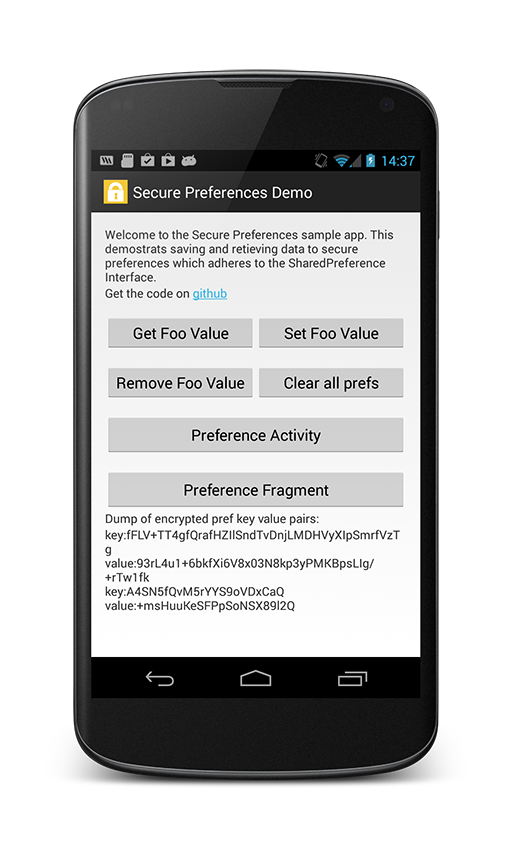
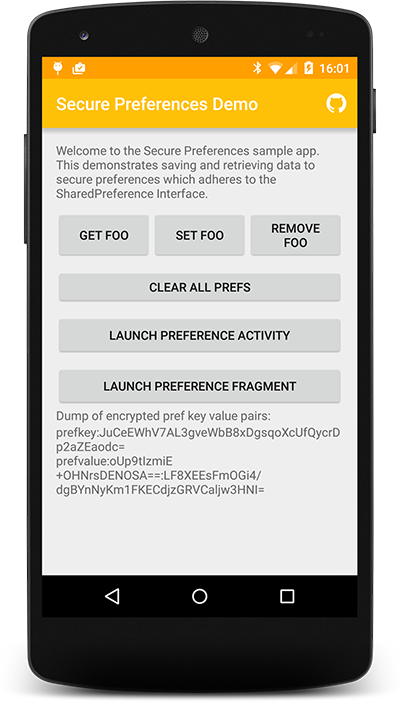
Updated read me/changes

diff --git a/README.md b/README.md
@@ -3,58 +3,103 @@ Secure-preferences
 
 [![Android Arsenal](https://img.shields.io/badge/Android%20Arsenal-secure--preferences-brightgreen.svg?style=flat)](http://android-arsenal.com/details/1/362)
 
-This is Android Shared preference wrapper that encrypts the keys and values of Shared Preferences using 256-bit AES. **The key is stored in the perferences and so can be read and extracted by root user.** Keys and values are encrypted and base64 encooded before storing into prefs. 
+This is Android Shared preference wrapper that encrypts the values of Shared Preferences using AES 128, CBC, and PKCS5 padding with integrity checking in the form of a SHA 256 hash. Each key is stored as a one way HA 256 hash. Both keys and values are base64 encoded before storing into prefs xml file. **By default the generated key is stored in the backing perferences file and so can be read and extracted by root user.** Recommend use the user password generated option as added in v0.1.0.
 
-The sample app is availbile on [playstore](https://play.google.com/store/apps/details?id=com.securepreferences.sample)
+The sample app is available on [playstore](https://play.google.com/store/apps/details?id=com.securepreferences.sample)
 
-Much of the original code is from Daniel Abraham article on [codeproject](http://www.codeproject.com/Articles/549119/Encryption-Wrapper-for-Android-SharedPreferences). This project was created and shared on Github with his permission. 
-
-![screenshot](https://raw.github.com/scottyab/secure-preferences/master/docs/images/ss_frame_secure_pref.png "Sample app Screenshot")
+<img src="https://raw.github.com/scottyab/secure-preferences/master/docs/images/ss_frame_secure_pref.png" height="400" alt="Sample app Screenshot" />
  
 
+##New release v0.1.0
+This release is a major refactor of the guts of secure prefs, which is *Not backwards compatible* yet with older versions. So if you have an existing app using this don't upgrade. I'll be looking to add migration into a later release.
+
+#Usage
+
 ##Dependency
+
+Maven central is the prefered way:
+
 ```java
 	dependencies {
     	compile 'com.scottyab:secure-preferences-lib:0.0.4'
 	}
 ```
 
-##Release Notes:
-0.0.5 (coming soon)
-* default AES to CBC mode for increased security
+Or clone this repo and add the library as a Android library project/module.
 
-0.0.4
-* Gralde support thanks @yelinaung 
-* Fix for OnPreferenceChanged listener @richardleggett 
+#Examples
+This will use the default shared pref file
 
-0.0.3
+```java
+        SharedPreferences prefs = new SecurePreferences(context);     
+```
 
-* Added test Project
-* Updated sample ready for playstore upload 
+##Custom pref file
+You can define a seperate file for encrpyted preferences. 
 
-0.0.2
+```java
+        SharedPreferences prefs = new SecurePreferences(context, null, "my_custom_prefs.xml");
+```
 
-* Added methods to get/set strings un-encrypted 
-* Added backup PBKDF function in case PBKDF2WithHmacSHA1 not supported
-* Refactored code to make it easier to change the AES mode and PBKDF function. 
-* Increased iterations of PBKDF from 1000 to 2000. 
 
-0.0.1 
+##User password
+Passing in a password to the SecurePreferences contructor means the key is generated at runtime and *not* stored in the backing pref file. 
 
-* Initial import to github I've modified the project structure. 
-* Included the Android base64 class so library can be used by Android 2.1+. 
-* Enhanced the sample project dumps current prefs to illustrate the fact they are stored encrypted and Base64 encoded. 
+```java
+        SharedPreferences prefs = new SecurePreferences(context, "userpassword", "my_user_prefs.xml");
+```
+
+##Changing Password
+
+```java
+        SecurePreferences securePrefs = new SecurePreferences(context, "userpassword", "my_user_prefs.xml");
+
+        
+```
+
+
+#What does the data look like?
+
+SharedPreferences keys and values are stored as simple map in an XML file.  
+
+##XML using Standard Android SharedPreferences
+
+
+```xml
+	<map>
+    <int name="timeout" value="500" />
+    <boolean name="is_logged_in" value="true" />
+</map>
+```
+
+##XML with SecurePreferences
+
+
+```xml
+	<map>
+    <string name="TuwbBU0IrAyL9znGBJ87uEi7pW0FwYwX8SZiiKnD2VZ7">
+        pD2UhS2K2MNjWm8KzpFrag==:MWm7NgaEhvaxAvA9wASUl0HUHCVBWkn3c2T1WoSAE/g=rroijgeWEGRDFSS/hg
+    </string>
+    <string name="8lqCQqn73Uo84Rj">k73tlfVNYsPshll19ztma7U">
+        pD2UhS2K2MNjWm8KzpFrag==:MWm7NgaEhvaxAvA9wASUl0HUHCVBWkn3c2T1WoSAE/g=:jWm8KzUl0HUHCVBWkn3c2T1WoSAE/g=
+    </string>
+</map>
+```
 
 
 ###Disclaimer
-It's not bullet proof security (in fact it's more like obfuscation of the perferences) but it's a quick win for incrementally making your android app more secure. For instance it'll stop users on rooted devices easily modifiying your app's shared prefs. 
+By default it's not bullet proof security (in fact it's more like obfuscation of the preferences) but it's a quick win for incrementally making your android app more secure. For instance it'll stop users on rooted devices easily modifiying your app's shared prefs.
+*Recommend using the user password based prefs as introducted in v0.1.0.*
 
 
 ###Contributing 
-Please do send me pull requests, but also bugs and enhancement requests are welcome. Although no guarantees on when I can review them.  
+Please do send me pull requests, but also bugs, issues and enhancement requests are welcome please add an issue.
 
 
 ###Licence 
+
+Much of the original code is from Daniel Abraham article on [codeproject](http://www.codeproject.com/Articles/549119/Encryption-Wrapper-for-Android-SharedPreferences). This project was created and shared on Github with his permission. 
+
 Apache License, Version 2.0
 
 
@@ -72,3 +117,6 @@ Apache License, Version 2.0
     WITHOUT WARRANTIES OR CONDITIONS OF ANY KIND, either express or implied.
     See the License for the specific language governing permissions and
     limitations under the License.
+
+
+Lock icon for sample app licenced under creativecommons created by Sam Smith via [thenounproject.com](http://thenounproject.com/term/lock/5704/)

diff --git a/changes.md b/changes.md
@@ -1,0 +1,35 @@
+##Release Notes:
+0.1.0
+This release is a major refactor of the guts of secure prefs, which is *Not backwards compatible* yet with older versions. So if you have an existing app using this don't upgrade. I'll be looking to add migration into a later release.
+
+* uses a new and stronger [Crypto library](https://github.com/scottyab/java-aes-crypto) under the hood
+* includes PRNG fixes that effects JellyBean devices as per [google dev blog article](http://android-developers.blogspot.nl/2013/08/some-securerandom-thoughts.html)
+* supports password based key generation so the key is not persisted
+* change password supported
+* updated sample app
+* removed test project and added tests as part of main project
+* refactored library project to standard gradle structure
+* published to maven central
+
+
+0.0.4
+* Gralde support thanks @yelinaung
+* Fix for OnPreferenceChanged listener @richardleggett
+
+0.0.3
+
+* Added test Project
+* Updated sample ready for playstore upload
+
+0.0.2
+
+* Added methods to get/set strings un-encrypted
+* Added backup PBKDF function in case PBKDF2WithHmacSHA1 not supported
+* Refactored code to make it easier to change the AES mode and PBKDF function.
+* Increased iterations of PBKDF from 1000 to 2000.
+
+0.0.1
+
+* Initial import to github I've modified the project structure.
+* Included the Android base64 class so library can be used by Android 2.1+.
+* Enhanced the sample project dumps current prefs to illustrate the fact they are stored encrypted and Base64 encoded.
